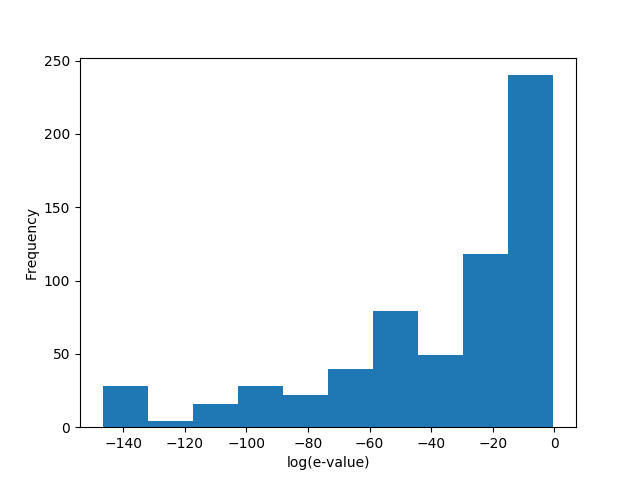
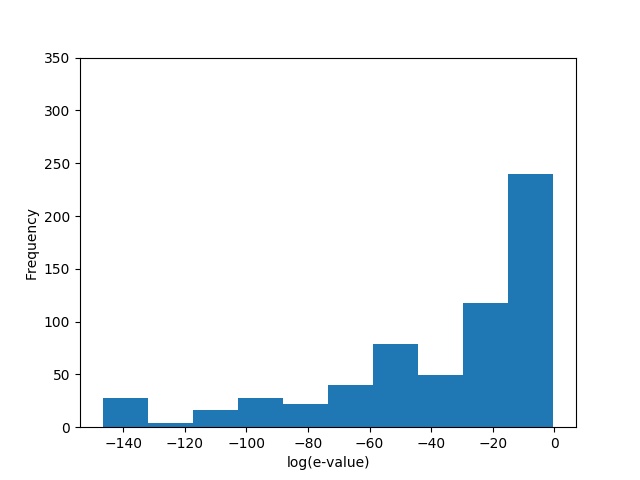
Fix plot scales

diff --git a/base_project/skeleton_scripts/run_local_blast.py b/base_project/skeleton_scripts/run_local_blast.py
@@ -32,7 +32,7 @@ def blast(db, query, evalue, query_folder="./queries/", blast_path="", psiblast=
         # Note that it is is easier to parse the output if it is in tabular format.
         # For that use can use the option -outfmt '6 qacc sacc evalue'. (see https://www.ncbi.nlm.nih.gov/books/NBK279682/ )
         # To avoid the warning about composition based statistics, disable them with -comp_based_stats 0
-	    cmd = "blastp -query " + query_folder + query + ".fasta -db " + db + " -outfmt '6 qacc sacc evalue' -comp_based_stats 0 -evalue "+evalue
+	cmd = "blastp -query " + query_folder + query + ".fasta -db " + db + " -outfmt '6 qacc sacc evalue' -comp_based_stats 0 -evalue "+evalue
         ##########################
         ###  END CODING HERE  ####
         ##########################
@@ -43,7 +43,7 @@ def blast(db, query, evalue, query_folder="./queries/", blast_path="", psiblast=
         ##########################
         # Define the variable 'cmd' as a string with the command for PSI-BLASTing 'query' against
         # the specified database 'db'.
-	    cmd = "psiblast -query " + query_folder + query + ".fasta -db " + db +" -num_iterations 3 -outfmt '6 qacc sacc evalue' -comp_based_stats 0 -evalue "+evalue
+	cmd = "psiblast -query " + query_folder + query + ".fasta -db " + db +" -num_iterations 3 -outfmt '6 qacc sacc evalue' -comp_based_stats 0 -evalue "+evalue
         ##########################
         ###  END CODING HERE  ####
         ##########################
@@ -72,9 +72,9 @@ def parse_blast_result(blast_result, blast_dict):
                 ### START CODING HERE ####
                 ##########################
                 # Parse the e-score corresponding to this line's (query, subject) pair and store it in blast_dict.
-		        if not query == subject:
-			        e_score = float(splitted_line[2])
-			        blast_dict[(query, subject)] = e_score
+	        if not query == subject:
+		        e_score = float(splitted_line[2])
+		        blast_dict[(query, subject)] = e_score
                 ##########################
                 ###  END CODING HERE  ####
                 ##########################
@@ -120,6 +120,8 @@ def plot_evalue_distribution(blast_dict, png_filename="DistributionEValue.png", 
     pylab.hist(map(lambda x: math.log10(x + pseudo_count), blast_dict.values()))
     pylab.xlabel("log(e-value)")
     pylab.ylabel("Frequency")
+    pylab.ylim((0,350))
+
     pylab.savefig(png_filename)
 
     ##########################
@@ -156,8 +158,8 @@ def main(uniprot_id_list, query_folder, db, psiblast, output_filename, evalue, o
         # Store all the uniprot IDs in the uniprot_ids.
         # Parse and store the blast result in the blast_dict.
         blast_results = blast(db, query, evalue, query_folder, '', psiblast)
-	    blast_dict = parse_blast_result(blast_results, blast_dict)
-	    uniprot_ids.append(query)
+	blast_dict = parse_blast_result(blast_results, blast_dict)
+	uniprot_ids.append(query)
         ##########################
         ###  END CODING HERE  ####
         ##########################
